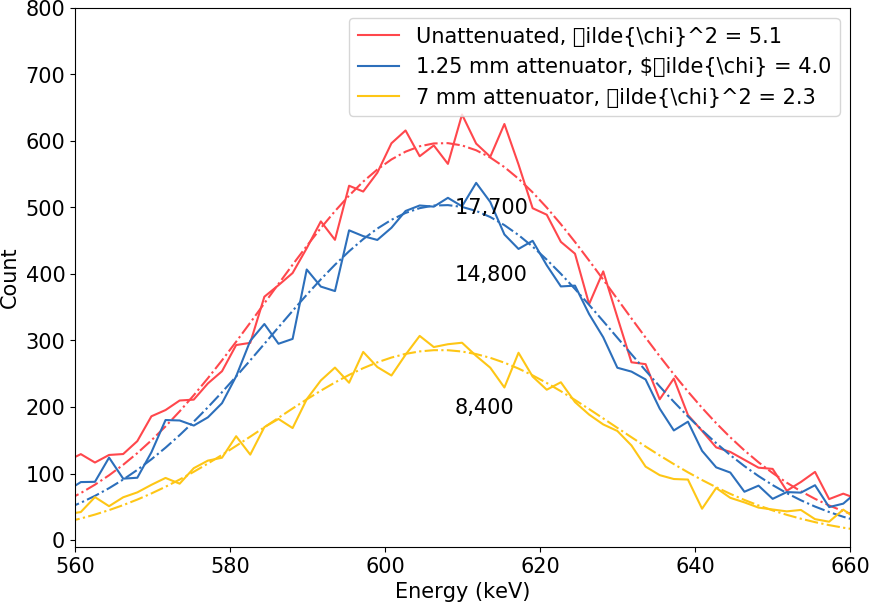
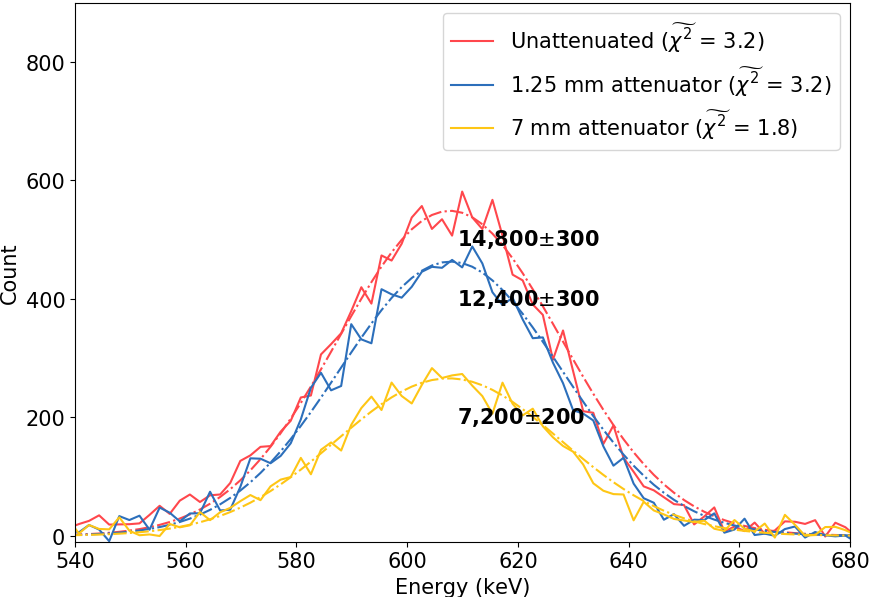
Improved uncertainty in counts under attenuated curves; fit attenuation to an exponential

diff --git a/absorption_of_radium.py b/absorption_of_radium.py
@@ -14,14 +14,16 @@ plt.rcParams.update({'font.size': 15})
 def exponential(x, A, b):
     return A*np.exp(-x*b)
 
+
+
 ###Subtract global and local background from Ra-226 attenuated and unattenuated spectra
 Radium_1mm_lead = data_arrays_take_2.sp3-data_arrays_take_2.sp0
 Radium = data_arrays_take_2.sp2-data_arrays_take_2.sp0
 Radium_7mm_lead = data_arrays_take_2.sp3_1-data_arrays_take_2.sp0
 
-Radium_1mm_lead_clean = Radium_1mm_lead - exponential(x0, 3500, .018) -30
-Radium_clean = Radium  - exponential(x0, 3500, .018) -20
-Radium_7mm_lead_clean = Radium_7mm_lead - exponential(x0, 3500, .018) -30
+Radium_1mm_lead_clean = Radium_1mm_lead +0.35*x0 - 200#- exponential(x0, 3500, .018) -30
+Radium_clean = Radium  +0.35*x0 - 200#- exponential(x0, 3500, .018) -20
+Radium_7mm_lead_clean = Radium_7mm_lead +0.35*x0 - 175#- exponential(x0, 3500, .018) -30
 
 
 
@@ -60,12 +62,14 @@ for i in range(peak.start, peak.stop + 1):
 
 print sum1, sum2, sum3
 
+
+
 ###Errors for curve fits
-perr_1 = np.sqrt(np.diag(abs(ra_params1)))   #Gives 1 standard deviation error of fit parameters
-perr_2 = np.sqrt(np.diag(abs(ra_params2)))
-perr_3 = np.sqrt(np.diag(abs(ra_params3)))
+perr_1 = np.sqrt(np.diag(abs(ra_param_covar1)))   #Gives 1 standard deviation error of fit parameters
+perr_2 = np.sqrt(np.diag(abs(ra_param_covar2)))
+perr_3 = np.sqrt(np.diag(abs(ra_param_covar3)))
 print perr_1, perr_2, perr_3
-print ra_params1, ra_params2, ra_params3
+#print ra_params1, ra_params2, ra_params3
 
 #print perr
 
@@ -80,10 +84,11 @@ for i in range( len(Radium_cut_7mm) ):
     sum+= (numerator/denominator)
 
 
+
 Chi_2_7mm = sum
 reduced_Chi_2_7mm = sum/(len(Radium_cut_7mm)-1)
 #print "Chi^2 7mm = {Chi_2_7mm}".format(Chi_2_7mm=Chi_2_7mm)
-#print "Reduced Chi^2 7mm = {reduced_Chi_2_7mm}".format(reduced_Chi_2_7mm=reduced_Chi_2_7mm)
+print "Reduced Chi^2 7mm = {reduced_Chi_2_7mm}".format(reduced_Chi_2_7mm=reduced_Chi_2_7mm)
 
 
 
@@ -100,7 +105,7 @@ for i in range( len(Radium_cut) ):
 Chi_2_unattenuated = sum
 reduced_Chi_2_unattenuated = sum/(len(Radium_cut)-1)
 #print "Chi^2 unattenuated = {Chi_2_unattenuated}".format(Chi_2_unattenuated=Chi_2_unattenuated)
-#print "Reduced Chi^2 unattenuated = {reduced_Chi_2_unattenuated}".format(reduced_Chi_2_unattenuated=reduced_Chi_2_unattenuated)
+print "Reduced Chi^2 unattenuated = {reduced_Chi_2_unattenuated}".format(reduced_Chi_2_unattenuated=reduced_Chi_2_unattenuated)
 
 numerator = 0
 denominator = 0
@@ -113,7 +118,7 @@ for i in range( len(Radium_cut_1mm) ):
 Chi_2_1mm = sum
 reduced_Chi_2_1mm = sum/(len(Radium_cut_1mm)-1)
 #print "Chi^2 1mm = {Chi_2_1mm}".format(Chi_2_1mm=Chi_2_1mm)
-#print "Reduced Chi^2 1mm = {reduced_Chi_2_1mm}".format(reduced_Chi_2_1mm=reduced_Chi_2_1mm)
+print "Reduced Chi^2 1mm = {reduced_Chi_2_1mm}".format(reduced_Chi_2_1mm=reduced_Chi_2_1mm)
 
 
 ###Calculate uncertainty of counts
@@ -121,38 +126,88 @@ def count_uncert(sigma, A, dsigma, dA):
     delta_c = np.sqrt(  np.pi*2*(sigma**2)*(dA)**2     +  2*np.pi*(A*dsigma)**2    )
     return delta_c
 
-count_uncertainty_1 = count_uncert( abs(ra_params1[0]), ra_params1[1], perr_1[0,0], perr_1[1,1])
-count_uncertainty_2 = count_uncert( abs(ra_params2[0]), ra_params2[1], perr_2[0,0], perr_2[1,1])
-count_uncertainty_3 = count_uncert( abs(ra_params3[0]), ra_params3[1], perr_3[0,0], perr_3[1,1])
+count_uncertainty_1 = count_uncert( abs(ra_params1[0]), ra_params1[2], perr_1[0], perr_1[2])
+count_uncertainty_2 = count_uncert( abs(ra_params2[0]), ra_params2[2], perr_2[0], perr_2[2])
+count_uncertainty_3 = count_uncert( abs(ra_params3[0]), ra_params3[2], perr_3[0], perr_3[2])
 print count_uncertainty_1, count_uncertainty_2, count_uncertainty_3
 
-#Calculate the uncertainty in lead absorption coefficient
+
+###Plot absporber thickness versus count and fit to exponential function
+count_uncertainties = [count_uncertainty_1, count_uncertainty_2, count_uncertainty_3]
+total_counts = [sum1, sum2, sum3]
+thicknesses = [0, 1.25, 7]
+
+absorption_fit_coeff, absorption_fit_covars = curve_fit(exponential, thicknesses, total_counts, p0 = [18000.,1.])
+
+
+
+###Calculate lead absorption coefficient
+def lead_attenuation(I, I0, x):
+    mu = (1/x) * np.log(I0/I)
+    return mu
+
+
+mu_7mm = lead_attenuation(sum3, sum1, 7)
+print "The attenuation coefficient w/ 7mm absorner is {0:.5}".format(mu_7mm)
+
+###Calculate the uncertainty in lead absorption coefficient
 
 def del_mu(I, I0, x, dI, dI0, dx):
-    np.sqrt( (dI0/(x*I0))**2  + (dI/(x*I))**2   + (( np.log(I0/I) * dx)/(x**2))**2    )
+    delta_mu = np.sqrt( (dI0/(x*I0))**2  + (dI/(x*I))**2   + (( np.log(I0/I) * dx)/(x**2))**2    )
+    return delta_mu
 
-delta_mu_1_25mm = del_mu(sum2, sum1, 1.25, 2570, 2578, 0.5)
-#print delta_mu_1_25mm
+delta_mu_1_25mm = del_mu(sum2, sum1, 1.25, count_uncertainty_2, count_uncertainty_1, 0.5)
+print "The uncertainty in mu from 1.25mm absorber = {delta_mu_1_25mm}".format(delta_mu_1_25mm=delta_mu_1_25mm)
+
+delta_mu_7mm = del_mu(sum3, sum1, 7, count_uncertainty_3, count_uncertainty_1, 0.5)
+print "The uncertainty in mu from 7mm absorber = {delta_mu_7mm}".format(delta_mu_7mm=delta_mu_7mm)
 
 
-#Plot 609keV photopeaks with fits and count no.
+###Plot 609keV photopeaks with fits and count no.
 plt.figure(figsize=(10,7))
-#plt.plot(x, exponential(x0, 3500, .018) + 40)
-plt.plot(x, Radium_clean, label="Unattenuated, \tilde{\chi}^2 = 5.1", color = '#ff474c')
+#plt.plot(x0, exponential(x0, 3500, .018) + 40)
+#plt.plot(x0, -0.35*x0 + 175)
+plt.plot(x, Radium_clean, label="Unattenuated ($\widetilde{\chi^2}$ = 3.2)", color = '#ff474c')
 plt.plot(x, gaussian(x0, *ra_params1), color = '#ff474c', linestyle = '-.')
-plt.plot(x, Radium_1mm_lead_clean, color = '#2c6fbb', label="1.25 mm attenuator, $\tilde{\chi} = 4.0" )
+plt.plot(x, Radium_1mm_lead_clean, color = '#2c6fbb', label="1.25 mm attenuator ($\widetilde{\chi^2}$ = 3.2)" )
 plt.plot(x, gaussian(x0,  *ra_params2), color = '#2c6fbb', linestyle = '-.')
-plt.plot(x, Radium_7mm_lead_clean, color = '#fec615', label="7 mm attenuator, \tilde{\chi}^2 = 2.3")
+plt.plot(x, Radium_7mm_lead_clean, color = '#fec615', label="7 mm attenuator ($\widetilde{\chi^2}$ = 1.8)")
 plt.plot(x, gaussian(x0,  *ra_params3), color = '#fec615', linestyle = '-.')
-plt.annotate('17,700 ', xy=(609, 490), xytext=(609, 490))
-plt.annotate('14,800', xy=(609, 390), xytext=(609, 390))
-plt.annotate('8,400', xy=(609, 190), xytext=(609, 190))
+plt.annotate('14,800$\pm$300 ', xy=(609, 490), xytext=(609, 490), fontweight='bold', fontsize = 15)
+plt.annotate('12,400$\pm$300', xy=(609, 390), xytext=(609, 390), fontweight='bold', fontsize = 15)
+plt.annotate('7,200$\pm$200', xy=(609, 190), xytext=(609, 190), fontweight='bold', fontsize = 15)
 #plt.xlim([0, 1000])
-plt.xlim([560,660])
-plt.ylim([-10,800])
+plt.xlim([540,680])
+plt.ylim([-10,900])
 #plt.title("Lead attenuation of Ra-226 609 keV photopeak")
 plt.xlabel("Energy (keV)")
 plt.ylabel("Count")
 plt.legend(loc=1, prop={'size': 15})
 plt.savefig("Lead_attenuated_radium.png", bbox_inches="tight", pad_inches=0)
+#plt.show()
+
+
+
+###Chi^2 of exponential fit
+Chi_2_exp_fit = (14819-exponential(0,  *absorption_fit_coeff) )**2/exponential(0,  *absorption_fit_coeff)
++(12436-exponential(1.25,  *absorption_fit_coeff) )**2/exponential(1.25,  *absorption_fit_coeff)  + (7228-exponential(7,  *absorption_fit_coeff) )**2/exponential(7,  *absorption_fit_coeff)
+
+reduced_Chi_2_exp_fit = Chi_2_exp_fit/2
+#print "Chi^2 7mm = {Chi_2_7mm}".format(Chi_2_7mm=Chi_2_7mm)
+print "Reduced Chi^2 of exponential fit = {reduced_Chi_2_exp_fit}".format(reduced_Chi_2_exp_fit=reduced_Chi_2_exp_fit)
+
+full_width = [2*300, 2*300, 2*200]
+
+
+
+#plt.figure(figsize=(10,7))
+fig, ax = plt.subplots()
+plt.plot(x0, exponential(x0, *absorption_fit_coeff), label = "Fitted curve ($\widetilde{\chi^2}$ = 2.4)")
+ax.errorbar(thicknesses, total_counts, yerr=(full_width), capsize=5, fmt='o', color = '#2c6fbb')
+plt.xlabel("Absorber Thickness (mm)")
+plt.ylabel("Count")
+plt.xlim([-1,10])
+plt.ylim([0,18000])
+plt.legend(loc=1, prop={'size': 15})
+plt.savefig("Lead_attenuation_versus_thickness.png", bbox_inches="tight", pad_inches=0)
 plt.show()
